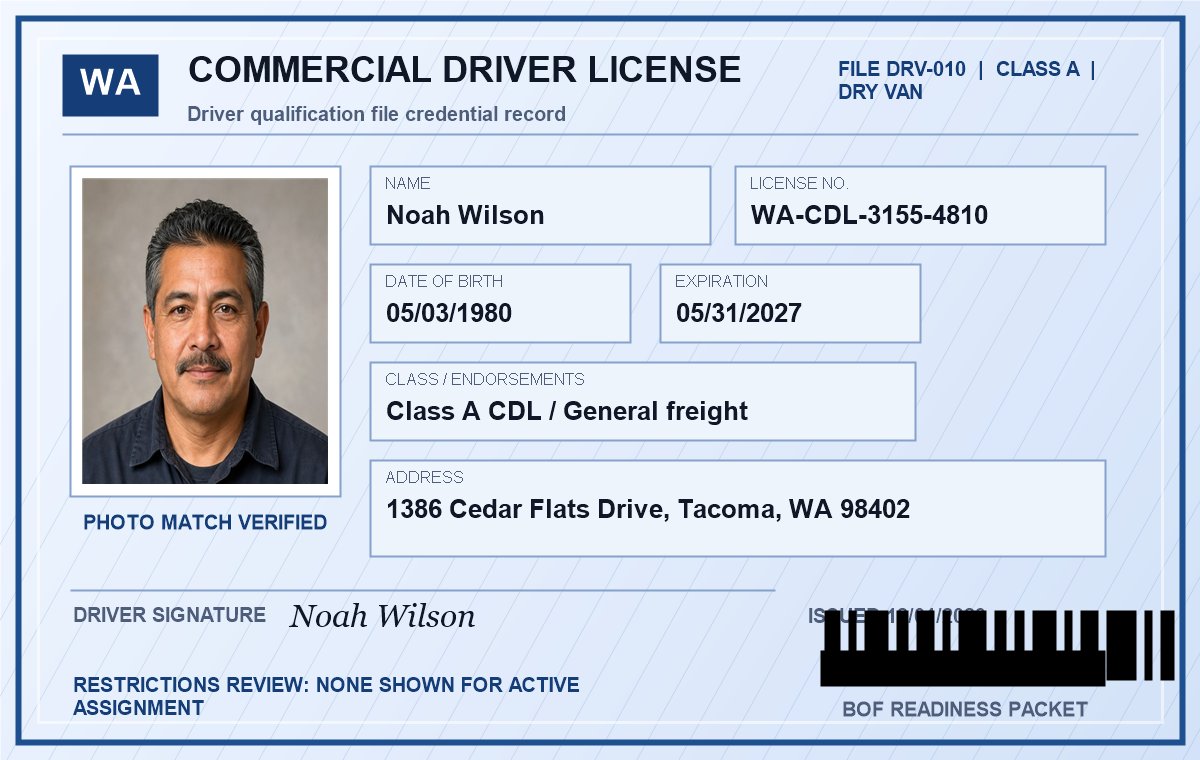
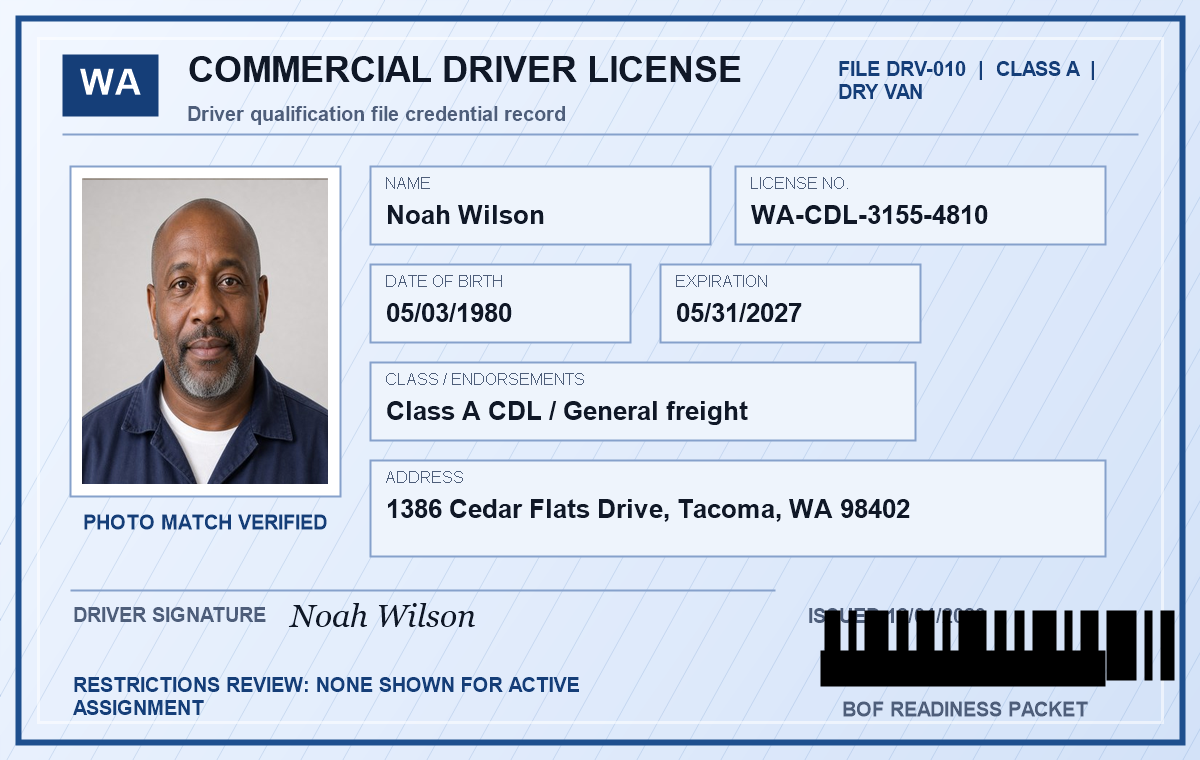
Fix driver records layout and Marcus portrait

Changed region(s): [[0.0617, 0.2118, 0.2775, 0.6355]]

diff --git a/Website/assets/js/interactive-demo-routes.js b/Website/assets/js/interactive-demo-routes.js
@@ -163,7 +163,7 @@
       hasGarnishment: true,
       summary: "Driver record with complete DQF, HR, settlement, emergency contact, and payroll withholding surfaces.",
       exception: "No active driver blocker; settlement documents are ready for owner review.",
-      photo: "/assets/images/profiles/drivers/driver-ref-007.jpg"
+      photo: "/assets/images/profiles/drivers/driver-ref-010.jpg"
     },
     "drv-008": {
       id: "DRV-008",
@@ -211,7 +211,7 @@
       hasGarnishment: false,
       summary: "Driver file is complete with DQF, HR, emergency, bank, and compliance categories represented.",
       exception: "No active document blocker.",
-      photo: "/assets/images/profiles/drivers/driver-ref-010.jpg"
+      photo: "/assets/images/profiles/drivers/driver-ref-007.jpg"
     },
     "drv-011": {
       id: "DRV-011",
@@ -1296,13 +1296,15 @@
   function driversIndex() {
     var cards = Object.keys(drivers).map(function (key) { return driverCardHtml(drivers[key]); }).join("");
     shell("Driver Records", "Drivers", [
-      '<section class="route-grid">',
+      '<section class="driver-vault-intake-row" aria-label="BOF Vault document intake workbench">',
       '  <article class="route-record-card driver-vault-intake-card">',
       '    <span>BOF Vault</span><h2>Document intake workbench</h2>',
       '    <p>Simulate how new driver, carrier, load, and settlement documents enter the Vault before they update readiness.</p>',
       '    <dl><div><dt>Workflow</dt><dd>Classify, verify, route, resolve, update readiness</dd></div><div><dt>Boundary</dt><dd>Review-only simulation; no file is transmitted or stored.</dd></div></dl>',
       '    <a href="/interactive-demo/drivers/document-intake/">Open document intake</a>',
       '  </article>',
+      '</section>',
+      '<section class="route-grid driver-record-grid" aria-label="Driver record cards">',
       cards,
       '</section>'
     ].join(""), "Open fleet driver records with photos, DQF readiness, ready/watch/hold state, dispatch consequence, and complete document packets.");

diff --git a/Website/interactive-demo/drivers/document-intake/index.html b/Website/interactive-demo/drivers/document-intake/index.html
@@ -8,7 +8,7 @@
 </head>
 <body class="product-demo-body">
   <main data-demo-route-page></main>
-  <script src="/assets/js/interactive-demo-routes.js?v=1.43"></script>
+  <script src="/assets/js/interactive-demo-routes.js?v=1.44"></script>
   <script src="/assets/js/vault-document-intake.js?v=1.3"></script>
 </body>
 </html>

diff --git a/Website/interactive-demo/drivers/drv-001/index.html b/Website/interactive-demo/drivers/drv-001/index.html
@@ -8,7 +8,7 @@
 </head>
 <body class="product-demo-body">
   <main data-demo-route-page></main>
-  <script src="/assets/js/interactive-demo-routes.js?v=1.43"></script>
+  <script src="/assets/js/interactive-demo-routes.js?v=1.44"></script>
 </body>
 </html>
 

diff --git a/Website/interactive-demo/drivers/drv-002/index.html b/Website/interactive-demo/drivers/drv-002/index.html
@@ -8,7 +8,7 @@
 </head>
 <body class="product-demo-body">
   <main data-demo-route-page></main>
-  <script src="/assets/js/interactive-demo-routes.js?v=1.43"></script>
+  <script src="/assets/js/interactive-demo-routes.js?v=1.44"></script>
 </body>
 </html>
 

diff --git a/Website/interactive-demo/drivers/drv-003/index.html b/Website/interactive-demo/drivers/drv-003/index.html
@@ -8,7 +8,7 @@
 </head>
 <body class="product-demo-body">
   <main data-demo-route-page></main>
-  <script src="/assets/js/interactive-demo-routes.js?v=1.43"></script>
+  <script src="/assets/js/interactive-demo-routes.js?v=1.44"></script>
 </body>
 </html>
 

diff --git a/Website/interactive-demo/drivers/drv-004/index.html b/Website/interactive-demo/drivers/drv-004/index.html
@@ -8,7 +8,7 @@
 </head>
 <body class="product-demo-body">
   <main data-demo-route-page></main>
-  <script src="/assets/js/interactive-demo-routes.js?v=1.43"></script>
+  <script src="/assets/js/interactive-demo-routes.js?v=1.44"></script>
 </body>
 </html>
 

diff --git a/Website/interactive-demo/drivers/drv-005/index.html b/Website/interactive-demo/drivers/drv-005/index.html
@@ -8,7 +8,7 @@
 </head>
 <body class="product-demo-body">
   <main data-demo-route-page></main>
-  <script src="/assets/js/interactive-demo-routes.js?v=1.43"></script>
+  <script src="/assets/js/interactive-demo-routes.js?v=1.44"></script>
 </body>
 </html>
 

diff --git a/Website/interactive-demo/drivers/drv-006/index.html b/Website/interactive-demo/drivers/drv-006/index.html
@@ -8,7 +8,7 @@
 </head>
 <body class="product-demo-body">
   <main data-demo-route-page></main>
-  <script src="/assets/js/interactive-demo-routes.js?v=1.43"></script>
+  <script src="/assets/js/interactive-demo-routes.js?v=1.44"></script>
 </body>
 </html>
 

diff --git a/Website/interactive-demo/drivers/drv-007/index.html b/Website/interactive-demo/drivers/drv-007/index.html
@@ -8,7 +8,7 @@
 </head>
 <body class="product-demo-body">
   <main data-demo-route-page></main>
-  <script src="/assets/js/interactive-demo-routes.js?v=1.43"></script>
+  <script src="/assets/js/interactive-demo-routes.js?v=1.44"></script>
 </body>
 </html>
 

diff --git a/Website/interactive-demo/drivers/drv-008/index.html b/Website/interactive-demo/drivers/drv-008/index.html
@@ -8,7 +8,7 @@
 </head>
 <body class="product-demo-body">
   <main data-demo-route-page></main>
-  <script src="/assets/js/interactive-demo-routes.js?v=1.43"></script>
+  <script src="/assets/js/interactive-demo-routes.js?v=1.44"></script>
 </body>
 </html>
 

diff --git a/Website/interactive-demo/drivers/drv-009/index.html b/Website/interactive-demo/drivers/drv-009/index.html
@@ -8,7 +8,7 @@
 </head>
 <body class="product-demo-body">
   <main data-demo-route-page></main>
-  <script src="/assets/js/interactive-demo-routes.js?v=1.43"></script>
+  <script src="/assets/js/interactive-demo-routes.js?v=1.44"></script>
 </body>
 </html>
 

diff --git a/Website/interactive-demo/drivers/drv-010/index.html b/Website/interactive-demo/drivers/drv-010/index.html
@@ -8,7 +8,7 @@
 </head>
 <body class="product-demo-body">
   <main data-demo-route-page></main>
-  <script src="/assets/js/interactive-demo-routes.js?v=1.43"></script>
+  <script src="/assets/js/interactive-demo-routes.js?v=1.44"></script>
 </body>
 </html>
 
